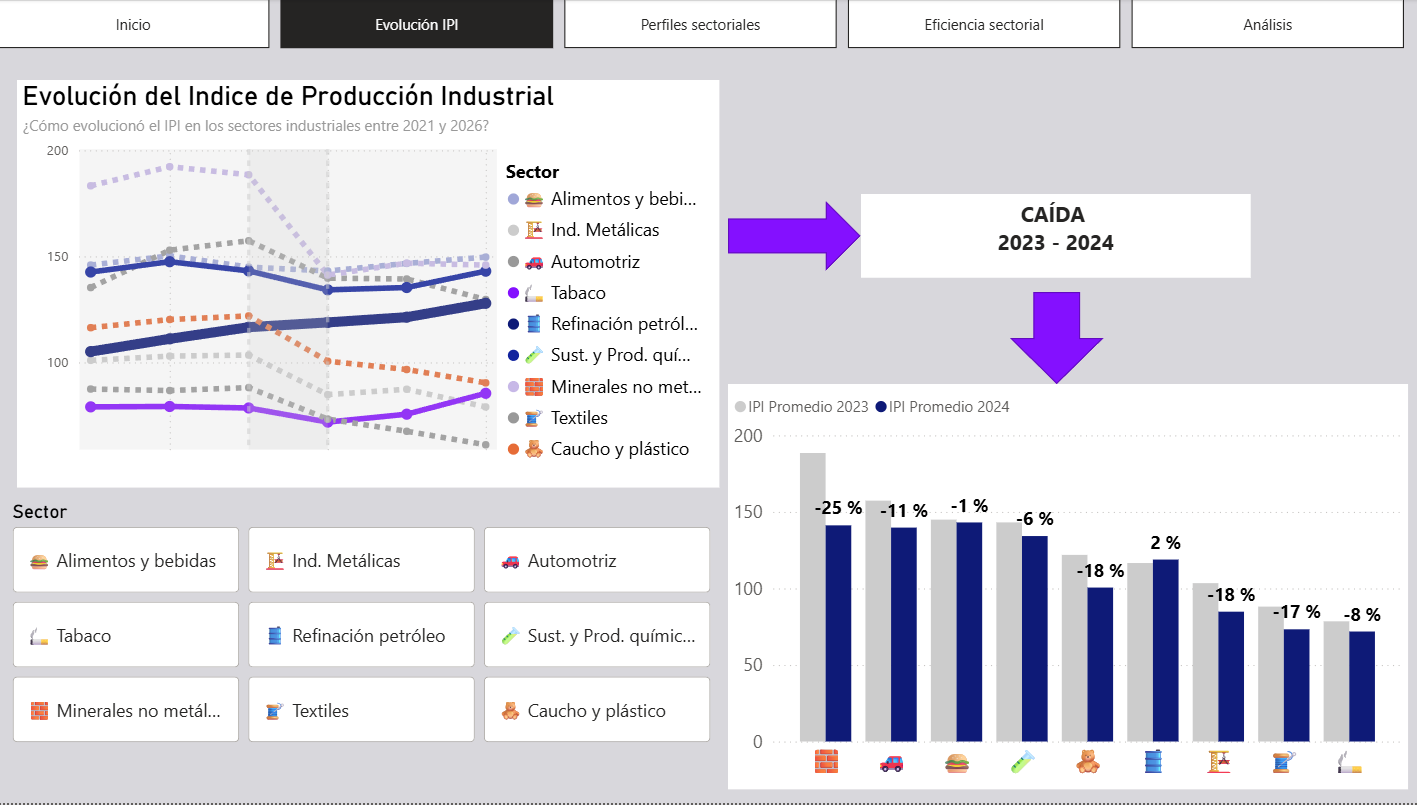
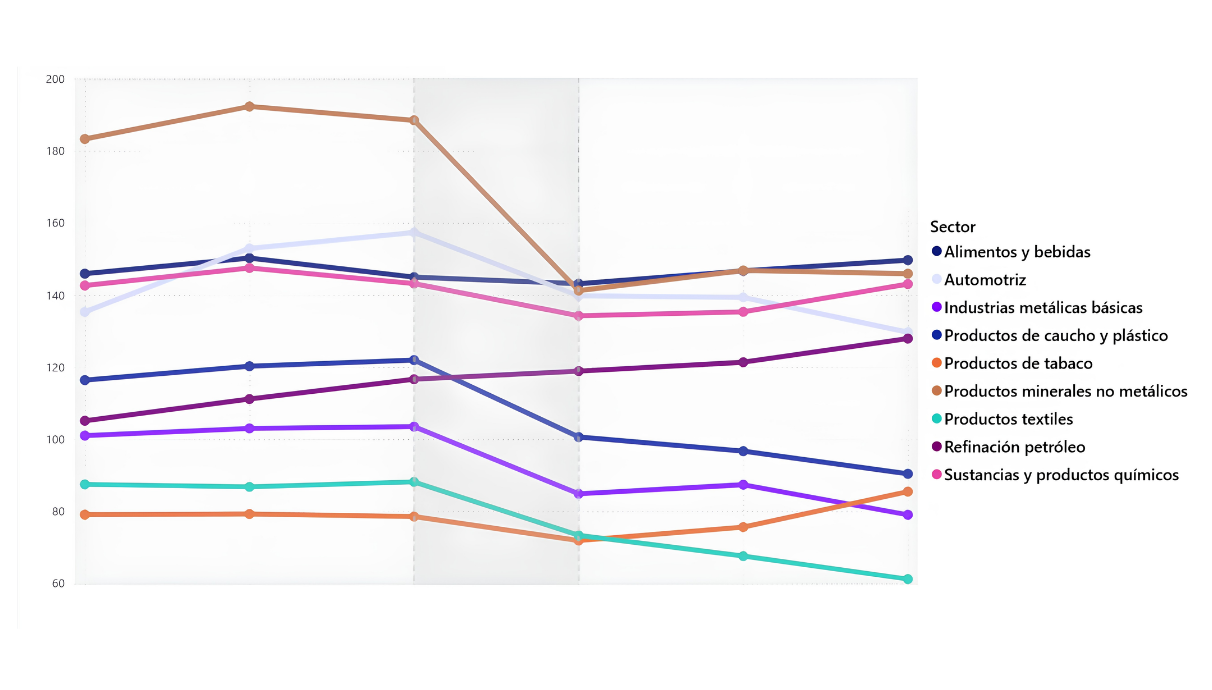
Integra capturas de la presentación final sobre el rediseño del README y corrige el texto según los datos

diff --git a/README.md b/README.md
@@ -43,7 +43,7 @@ Politécnico Malvinas Argentinas — Práctica Profesionalizante I · 1.<sup>er<
 
 La industria manufacturera argentina atraviesa una reconfiguración estructural posterior a la pandemia, marcada por una fuerte heterogeneidad: algunos sectores operan cerca de su capacidad máxima mientras otros tienen más del 40% de su infraestructura sin usar. Este proyecto aplica inteligencia de datos sobre registros oficiales del INDEC —el Índice de Producción Industrial (IPI) y la Utilización de la Capacidad Instalada Industrial (UCII)— para diagnosticar esa heterogeneidad en el período 2021–2026 y aportar evidencia empírica para la reconfiguración del sector.
 
-El objetivo es identificar y caracterizar perfiles de eficiencia sectorial cruzando producción (IPI), uso de capacidad (UCII) y exportaciones. Del análisis emergen tres perfiles: un bloque motor de alta producción y exportaciones (Alimentos y Bebidas, Automotriz, Químicos), un caso de uso intensivo de capacidad con fuerte aporte exportador pero límite físico de producción (Refinación de Petróleo), y un grupo de ramas rezagadas con registros bajos en todas las variables (Textiles, Tabaco, Caucho y Plástico).
+El objetivo es identificar y caracterizar perfiles de eficiencia sectorial cruzando producción (IPI), uso de capacidad (UCII) y exportaciones. Del análisis emergen tres perfiles: un bloque con potencialidad de crecimiento, de alta producción y exportaciones fuertes a moderadas (Alimentos y Bebidas, Automotriz, Químicos), un caso de uso intensivo de capacidad que exporta pero opera al límite de su producción (Refinación de Petróleo), y un grupo de ramas rezagadas con registros bajos de producción y uso de capacidad (Textiles, Tabaco, Caucho y Plástico).
 
 ---
 
@@ -106,7 +106,7 @@ El análisis se estructura en torno a tres preguntas centrales (ver `reports/spr
 Se analizó la estructura de los datasets: filas, columnas, tipos de dato, valores nulos y problemas de formato. El IPI tiene ~85 subclases CLaNAE y la UCII reporta 12 bloques sectoriales, por lo que no hay correspondencia directa 1 a 1 entre ambos. Se construyó una tabla de equivalencias para normalizar los nombres entre los tres datasets y trabajar con 9 sectores comparables.
 
 **Limpieza y normalización (Sprint 2)**  
-Se procesaron los dos datasets principales en Power Query: se resolvió el encabezado de dos niveles del IPI, se completó el campo año (que venía vacío en los meses que no eran enero), se marcaron los datos provisionales de los últimos meses y se homogeneizaron los nombres de sectores. El dataset de exportaciones se está incorporando en esta misma etapa.
+Se procesaron los dos datasets principales en Power Query: se resolvió el encabezado de dos niveles del IPI, se completó el campo año (que venía vacío en los meses que no eran enero), se marcaron los datos provisionales de los últimos meses y se homogeneizaron los nombres de sectores. El dataset de exportaciones se incorporó en esta misma etapa.
 
 **Visualizaciones**  
 Se desarrollaron en Power BI: scatter de posicionamiento sectorial (IPI vs UCII), gráfico de barras apiladas de capacidad utilizada vs ociosa, y líneas de evolución temporal por sector.
@@ -120,11 +120,11 @@ Se consolidan los insights y las visualizaciones en el dashboard final de Power 
 
 - El promedio de utilización de capacidad instalada de la industria en el período es de ≈ **61,5%**, lo que implica cerca de un **38,5% de capacidad ociosa** promedio.
 - La industria muestra un perfil **heterogéneo y polarizado**: sectores líderes claramente diferenciados de un grupo de ramas rezagadas.
-- **Alimentos y Bebidas** es el sector preponderante: el más resiliente ante la caída de 2024, el de mayor eficiencia productiva relativa y el principal generador de divisas.
-- **Sustancias y Productos Químicos** y **Automotriz** funcionan como motores secundarios de alta eficiencia y con un aporte exportador robusto.
-- **Refinación de Petróleo** registra la **UCII más alta del panel (≈ 78,39%)** y crecimiento sostenido post-2024, pero baja eficiencia técnica: al operar al límite de su capacidad, requeriría inversión en ampliación para crecer en producción.
-- **Productos Textiles**, **Tabaco** y **Caucho y Plástico** son los sectores rezagados, con los valores más bajos en producción, capacidad utilizada y exportaciones.
-- Entre **2023 y 2024** la industria sufrió una recesión generalizada: el IPI promedio cayó con fuerza en **Caucho y Plástico (−18 %)**, **Textil (−17 %)** y **Automotriz (−11 %)**, tras el pico de 2022–2023 y con recuperación dispar entre sectores.
+- **Alimentos y Bebidas** es el sector preponderante: el más resiliente ante la caída de 2023–2024 (variación del IPI de −1%, la menor del panel), el principal exportador y con eficiencia IPI/UCII alta (2,32).
+- **Automotriz** registra la **mayor eficiencia IPI/UCII del panel (2,9)**, con exportaciones moderadas; **Sustancias y Productos Químicos** combina eficiencia alta (2,10) con exportaciones moderadas.
+- **Refinación de Petróleo** registra la **UCII más alta del panel (≈ 78,39%)** y fue el único sector con variación positiva del IPI entre 2023 y 2024 (+2%), pero presenta una de las eficiencias IPI/UCII más bajas (1,44): opera cerca del techo de su capacidad instalada.
+- **Productos Textiles**, **Tabaco** y **Caucho y Plástico** son los sectores rezagados, con las UCII más bajas del panel y registros bajos de IPI y exportaciones.
+- Entre **2023 y 2024** se produce una caída generalizada del IPI: 8 de los 9 sectores retrocedieron, con las mayores bajas en **Productos Minerales no Metálicos (−25 %)**, **Caucho y Plástico (−18 %)**, **Industrias Metálicas Básicas (−18 %)** y **Textil (−17 %)**, y recuperación dispar entre sectores.
 
 ---
 
@@ -132,10 +132,10 @@ Se consolidan los insights y las visualizaciones en el dashboard final de Power 
 
 Tres hallazgos sintetizan el análisis (son los que estructuran el video de presentación).
 
-**Contexto — la recesión 2023–2024.** En ese bienio la industria sufrió una contracción generalizada del IPI: **Caucho y Plástico −18 %**, **Textil −17 %** y **Automotriz −11 %**.
+**Contexto — la recesión 2023–2024.** En ese bienio la industria sufrió una contracción generalizada del IPI: 8 de los 9 sectores retrocedieron, entre ellos **Caucho y Plástico −18 %**, **Textil −17 %** y **Automotriz −11 %**.
 
 ### 🛢️ Hallazgo 1 — Un único sector inmune a la caída
-**Refinación de Petróleo** fue el único rubro que no solo resistió, sino que *creció* (**+2 % de IPI**) mientras el resto del aparato productivo se contraía. El sector energético tiene dinámicas de demanda propias, capaces de aislarse de las crisis del consumo interno.
+**Refinación de Petróleo** fue el único rubro que no solo resistió, sino que *creció* (**+2 % de IPI**) mientras el resto del aparato productivo se contraía. Es, además, el sector que opera con la UCII más alta del panel (≈ 78,39 %).
 
 ### 🏭 Hallazgo 2 — Tres perfiles industriales
 Cruzando producción, uso de capacidad y exportaciones emergen tres perfiles bien diferenciados:
@@ -143,15 +143,15 @@ Cruzando producción, uso de capacidad y exportaciones emergen tres perfiles bie
 | Perfil | Sectores | IPI | UCII | Exportaciones |
 |---|---|:---:|:---:|:---:|
 | **Sectores motores** | Alimentos y Bebidas · Automotriz · Productos Químicos | Alto | Media | Fuertes a moderadas |
-| **La excepción energética** | Refinación de Petróleo | Estable | Máxima (techo técnico) | Importantes |
+| **La excepción energética** | Refinación de Petróleo | En alza | Máxima (techo técnico) | Moderadas |
 | **Sectores rezagados** | Textil · Tabaco · Caucho y Plástico | Bajo | Baja | Muy bajas |
 
 ### 🚀 Hallazgo 3 — Potencialidad de cada sector
-Con una nueva variable, la **eficiencia productiva (IPI / UCII)**, cruzada con las exportaciones, se proyecta el potencial de cada perfil:
+Con una nueva variable, la **eficiencia productiva (IPI / UCII)**, cruzada con las exportaciones, se caracteriza el potencial de cada perfil:
 
-- **Motores potenciales:** alto potencial de crecimiento productivo y exportador.
-- **Disociación operativa (Refinación de Petróleo):** produce al máximo de su capacidad; no puede crecer sin fuertes inversiones de infraestructura, pero sostiene exportaciones clave.
-- **Sectores rezagados:** sin proyección de crecimiento inmediata; requieren medidas específicas para revertir su rezago.
+- **Motores potenciales:** eficiencia alta y exportaciones relevantes; son los sectores con mayor margen de crecimiento según los datos.
+- **Disociación operativa (Refinación de Petróleo):** produce al máximo de su capacidad instalada, sin margen para aumentar la producción con la infraestructura actual, y sostiene sus exportaciones.
+- **Sectores rezagados:** sin proyección de crecimiento en el período analizado, con eficiencia baja y participación exportadora marginal.
 
 ---
 
@@ -164,21 +164,21 @@ Gráfico de líneas de la evolución temporal del IPI por sector.
 
 ![Evolución del IPI 2021-2026](docs/capturas/P1_evolucion_ipi_2021_2026.png)
 
-**Qué se observa:** crecimiento desde 2021 hasta un pico en 2022–2023 y una caída generalizada en 2024. *Alimentos y Bebidas* se mantiene alto y estable (mayor resiliencia); *Automotriz* cae con fuerza en 2024 sin recuperación visible; *Textiles* e *Industrias Metálicas Básicas* muestran caída pronunciada con recuperación parcial; *Refinación de Petróleo* es la única excepción, con crecimiento sostenido hacia 2026.
+**Qué se observa:** una caída generalizada del IPI entre 2023 y 2024: 8 de los 9 sectores retrocedieron. *Alimentos y Bebidas* se mantiene alto y estable (variación de −1%, la menor del panel); *Automotriz* cae en 2024 y no se recupera hacia 2026; *Productos Textiles* desciende de forma continua durante todo el período; *Industrias Metálicas Básicas* cae con fuerza y recupera solo parcialmente; *Refinación de Petróleo* es la única excepción, con crecimiento positivo (+2% entre 2023 y 2024) y tendencia ascendente hacia 2026.
 
 ### Pregunta 2 — Perfiles productivos (IPI × UCII × exportaciones)
 Distribución bivariada y segmentación de los sectores según producción, uso de capacidad y exportaciones.
 
 ![Perfiles IPI x UCII x exportaciones](docs/capturas/P2_perfiles_ipi_ucii_exportaciones.gif)
 
-**Qué se observa:** emergen tres perfiles. (1) Alta producción, capacidad media-alta (UCII 50–70%) y exportaciones fuertes a moderadas: *Alimentos y Bebidas, Automotriz, Productos Químicos*. (2) Uso intensivo de capacidad con buenas exportaciones: *Refinación de Petróleo* (UCII máxima del panel). (3) Sectores rezagados con valores bajos en todas las variables, agrupados en el cuadrante inferior izquierdo: *Productos Textiles, Tabaco y Caucho y Plástico*.
+**Qué se observa:** emergen tres perfiles. (1) *Con potencialidad de crecimiento* — IPI alto, UCII media y exportaciones fuertes a moderadas: *Alimentos y Bebidas, Automotriz y Productos Químicos*. (2) *Desacople operativo* — *Refinación de Petróleo*: exporta, pero registra la UCII máxima del panel y opera al límite de su capacidad. (3) *Rezagado* — IPI y UCII bajos, sin proyección de crecimiento en el período: *Productos Textiles, Tabaco, Caucho y Plástico e Industrias Metálicas Básicas*.
 
 ### Pregunta 3 — Eficiencia productiva (IPI/UCII) y exportaciones
 Gráfico combinado (columnas agrupadas de eficiencia + línea de exportaciones).
 
 ![Eficiencia IPI/UCII y exportaciones](docs/capturas/P3_eficiencia_ipi_ucii_exportaciones.png)
 
-**Qué se observa:** *Alimentos y Bebidas* lidera, con la mayor eficiencia relativa y el mayor nivel de exportaciones. *Sustancias y Productos Químicos* y *Automotriz* aparecen como motores secundarios, altamente competitivos. *Refinación de Petróleo* es un caso de desconexión: buen desempeño exportador pero baja eficiencia técnica, porque consume casi toda su capacidad instalada (UCII ≈ 78,39%). *Textiles, Tabaco y Caucho y Plástico* quedan en los últimos lugares en eficiencia y con participación marginal en el comercio exterior.
+**Qué se observa:** *Automotriz* registra la mayor eficiencia IPI/UCII del panel (2,9), con exportaciones moderadas. *Alimentos y Bebidas* es el líder exportador por amplio margen y sostiene una eficiencia alta (2,32). *Refinación de Petróleo* presenta una de las eficiencias más bajas (1,44) porque consume casi toda su capacidad instalada (UCII ≈ 78,39%). Los últimos lugares en eficiencia corresponden a *Industrias Metálicas Básicas* (1,33), *Refinación de Petróleo* (1,44) y *Productos de Tabaco* (1,47); los sectores rezagados muestran además una participación marginal en las exportaciones.
 
 ---
 
@@ -200,9 +200,9 @@ El cierre del proyecto se materializa en un dashboard interactivo de Power BI (`
 
 ## Conclusiones
 
-Los datos del INDEC confirman una industria manufacturera **heterogénea y polarizada**. **Alimentos y Bebidas** lidera la estructura como el bloque más resiliente, eficiente y generador de divisas; **Químicos** y **Automotriz** operan como motores industriales secundarios de alta eficiencia. En el extremo opuesto, las ramas ligadas al consumo interno (**Textil, Tabaco, Caucho y Plástico**) muestran un estancamiento crítico generalizado en producción, uso de capacidad e inserción externa entre 2021 y 2026.
+Los datos del INDEC muestran una industria manufacturera **heterogénea y polarizada**. **Alimentos y Bebidas** es el sector más resiliente ante la caída de 2023–2024 y el principal exportador del panel; **Automotriz** registra la mayor eficiencia IPI/UCII (2,9) y **Químicos** combina eficiencia alta con exportaciones moderadas. En el extremo opuesto, **Textil, Tabaco y Caucho y Plástico** presentan los registros más bajos de IPI y UCII del período 2021–2026, sin señales de recuperación en los datos.
 
-**Refinación de Petróleo** cumple un rol clave pero atípico: no como motor flexible de alta producción, sino como estabilizador de energía y divisas. Su baja eficiencia técnica se explica porque consume casi toda su capacidad instalada (UCII máxima del panel, 78,39%); para aumentar su producción física necesitaría inversiones de ampliación en sus plantas.
+**Refinación de Petróleo** es el caso atípico del panel: fue el único sector con variación positiva del IPI entre 2023 y 2024 (+2%) y registra la UCII más alta (78,39%), pero una de las eficiencias IPI/UCII más bajas (1,44). El indicador refleja que opera cerca del techo de su capacidad instalada, lo que limita el margen de crecimiento de su producción con la capacidad actual.
 
 El Sprint 3 consolida estos hallazgos en el informe técnico final y el dashboard, y deja el repositorio con la estructura definitiva del proyecto.
 